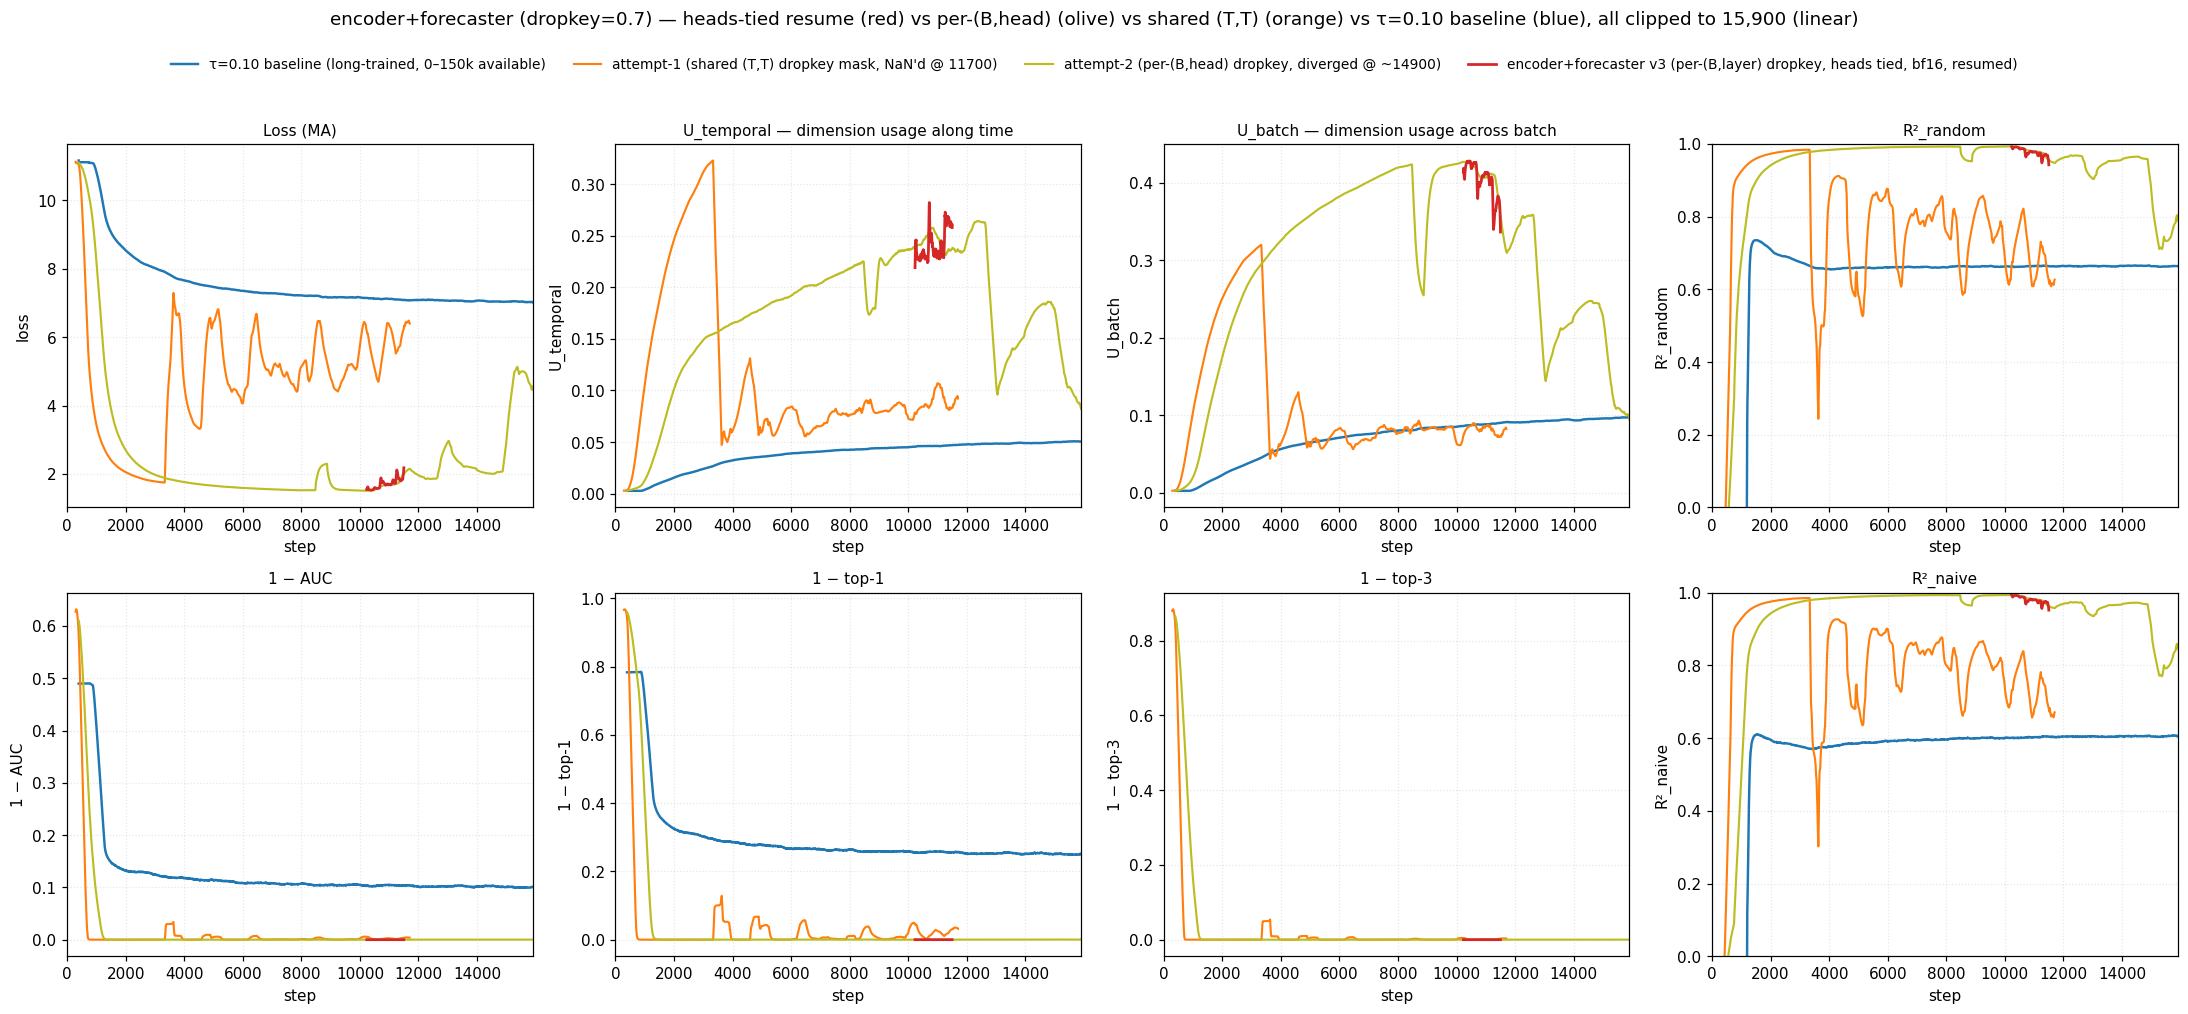
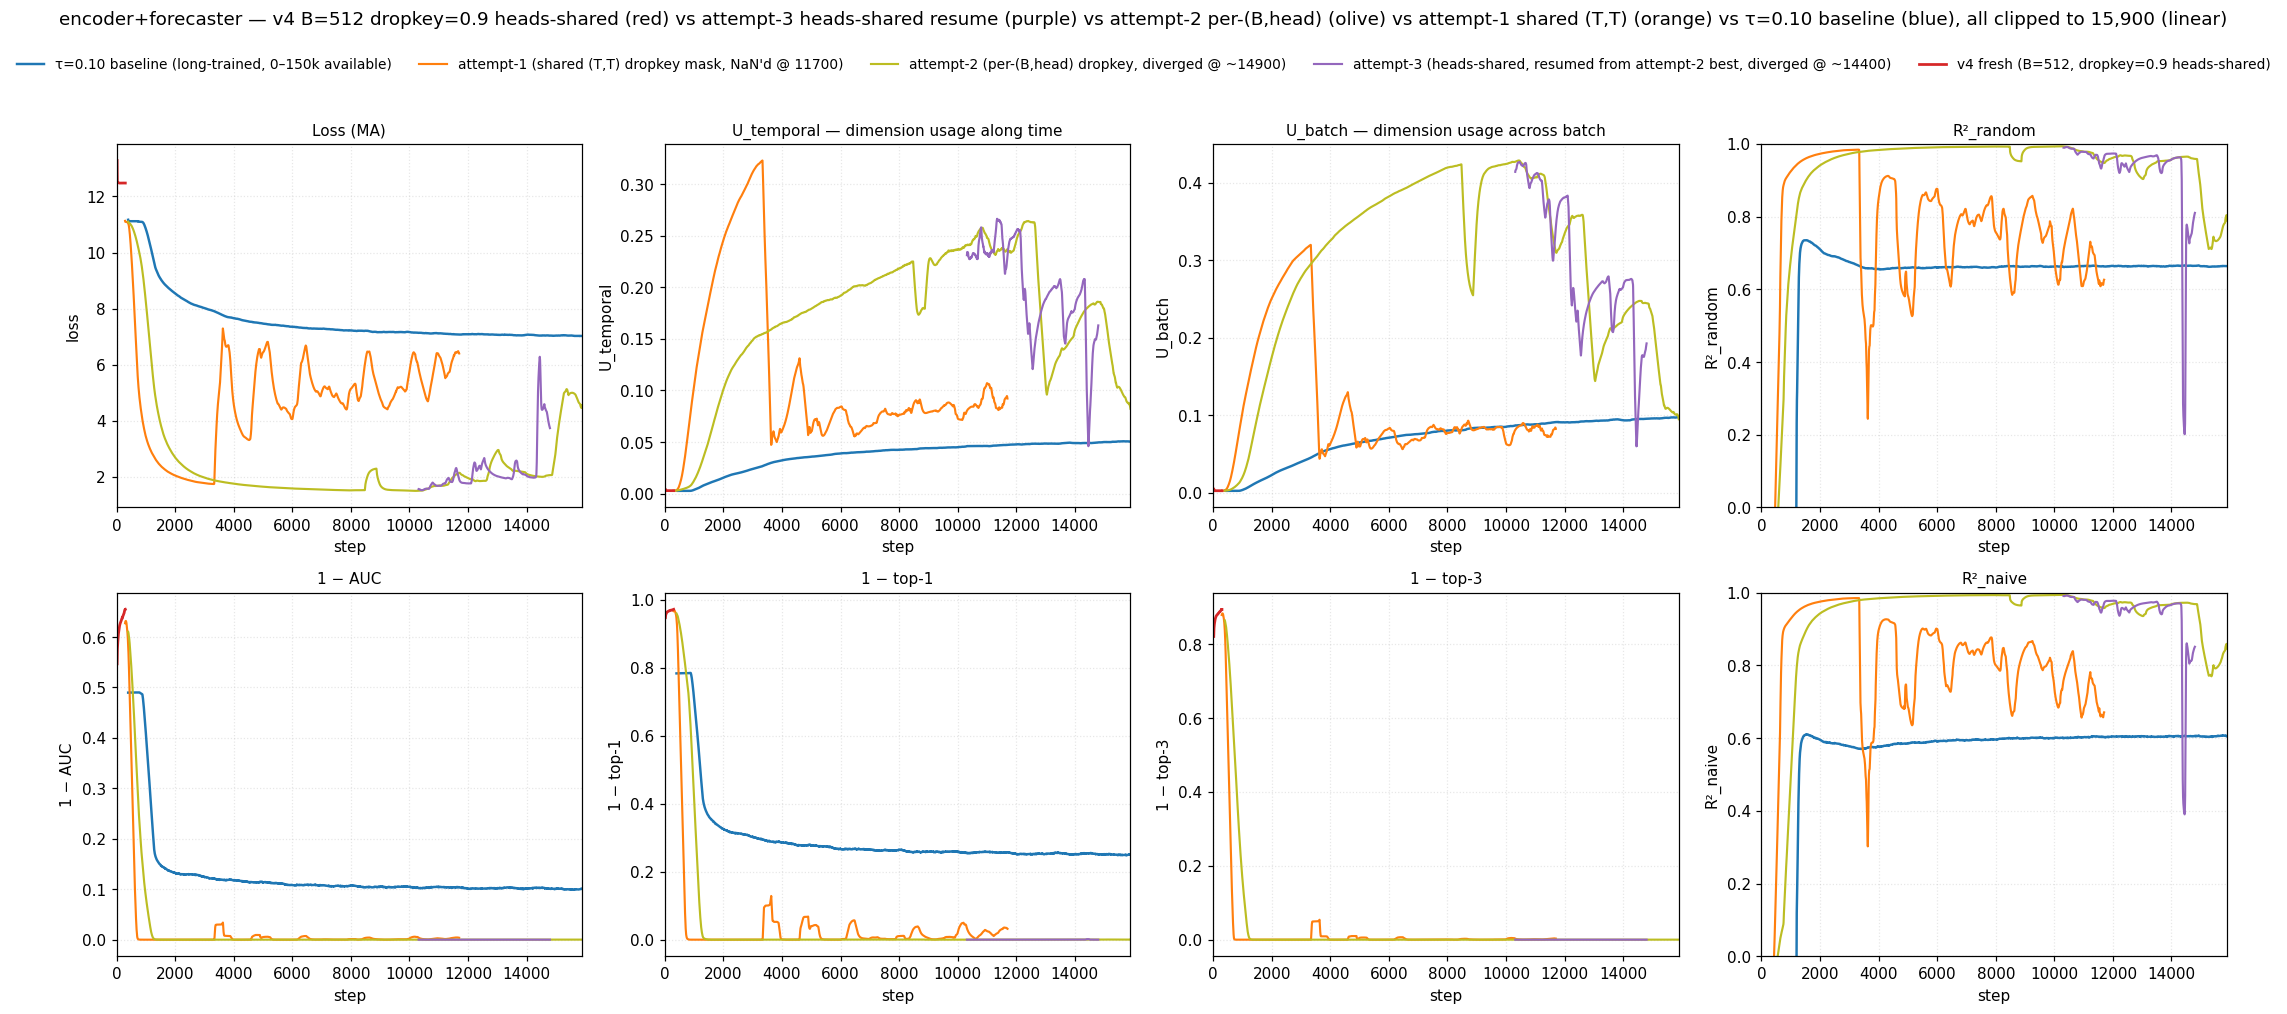
exp(enc-fcst-v4): fresh-from-zero — B=512, dropkey=0.9 heads-shared, bf16
Fresh attempt after the v2/v3 dropkey-0.7 instability diagnostic
(landed in commit 2be4ac0). Multi-factor change agreed at ~03:00:

- --batch-size 512 (was 256): halves effective per-sample LR; each
  step sees more data so outlier batches matter less. Net per-step
  noise reduces by √2.
- --encoder-dropkey 0.9 (was 0.7): stronger past-key drop.
- --encoder-dropkey-share-heads: heads see same mask within (B, layer)
  → prevents heads cooperating to count positions. Adds √nhead more
  per-step variance vs per-(B,head), but the B=512 reduction dominates
  the LR-effective story.
- Fresh from step 0 (no --resume): clean trajectory.
- LR unchanged at 1e-3.

Memory at B=512 + bf16: ~23 GB on the 24 GB 4090 (vs ~11 GB at B=256).
Right at the edge but stable so far.

Run name: enc_fcst_dk09_hs_b512_50k. Throughput ~1.8 sps warm-up,
ETA ~5h to step 50k. If divergence pattern reappears (single-step
loss kick-out like attempt-2), the fix is to drop LR explicitly.

Plot updated to 5 arms: blue baseline / orange attempt-1 / olive
attempt-2 / purple attempt-3 / red v4 (the new headline). Watchdog
re-targeted to v4 paths.

diff --git a/experiments/2026-05-11_exp_encoder_forecaster/scripts/plot_progress.py b/experiments/2026-05-11_exp_encoder_forecaster/scripts/plot_progress.py
@@ -67,11 +67,14 @@ MAIN = Path("/home/jupyter/contrastive-forecasting")
 #   - attempt-1 (shared (T,T) dropkey mask, NaN'd at step 11700) → tab:orange
 #   - attempt-2 (per-(B,head) dropkey, diverged ~14.9k) → olive (visibly
 #                distinct from both tab:orange and tab:red)
-#   - attempt-3 / headline (per-(B,layer) dropkey, heads tied) → tab:red
+#   - attempt-3 (heads-shared, resumed from attempt-2 best, diverged
+#                ~14.4k) → tab:purple (was red; moved to make room for v4)
+#   - v4 / headline (B=512, dropkey=0.9 heads-shared) → tab:red
 C_BASELINE = "#1f77b4"  # tab:blue
 C_ATTEMPT1 = "#ff7f0e"  # tab:orange
 C_ATTEMPT2 = "#bcbd22"  # tab:olive
-C_HEADLINE = "#d62728"  # tab:red
+C_ATTEMPT3 = "#9467bd"  # tab:purple
+C_HEADLINE_V4 = "#d62728"  # tab:red
 
 # τ=0.10 baseline is split across resume chunks. Concatenate in step
 # order; on overlap, the earliest chunk's row wins.
@@ -82,9 +85,10 @@ BASELINE_CHUNKS = [
     MAIN / "sync_tau_sweep_0_10_150k/checkpoints/tau_sweep_0_10_150k_losses.csv",   # 48001–150000
 ]
 
-NEW_ARM_CSV = MAIN / "checkpoints/enc_fcst_dropkey07_pb_hs_50k_losses.csv"
+NEW_ARM_CSV = MAIN / "checkpoints/enc_fcst_dk09_hs_b512_50k_losses.csv"
 ATTEMPT1_CSV = MAIN / "checkpoints/enc_fcst_dropkey07_50k_attempt1_losses.csv"
 ATTEMPT2_CSV = MAIN / "checkpoints/enc_fcst_dropkey07_pb_50k_attempt2_losses.csv"
+ATTEMPT3_CSV = MAIN / "checkpoints/enc_fcst_dropkey07_pb_hs_50k_attempt3_losses.csv"
 
 # (display_label, color, linestyle, lw, csv_path_or_chunks, is_concat)
 ARMS = [
@@ -100,8 +104,12 @@ ARMS = [
      C_ATTEMPT2, "-", 1.4,
      ATTEMPT2_CSV,
      False),
-    ("encoder+forecaster v3 (per-(B,layer) dropkey, heads tied, bf16, resumed)",
-     C_HEADLINE, "-", 1.8,
+    ("attempt-3 (heads-shared, resumed from attempt-2 best, diverged @ ~14400)",
+     C_ATTEMPT3, "-", 1.4,
+     ATTEMPT3_CSV,
+     False),
+    ("v4 fresh (B=512, dropkey=0.9 heads-shared)",
+     C_HEADLINE_V4, "-", 1.8,
      NEW_ARM_CSV,
      False),
 ]
@@ -292,8 +300,9 @@ def render_figure(traj, *, logx, logy_metrics, out_path, scale_tag, xmax,
                    bbox_to_anchor=(0.5, 0.985))
 
     fig.suptitle(
-        f"encoder+forecaster (dropkey=0.7) — heads-tied resume (red) vs "
-        f"per-(B,head) (olive) vs shared (T,T) (orange) vs τ=0.10 baseline "
+        f"encoder+forecaster — v4 B=512 dropkey=0.9 heads-shared (red) vs "
+        f"attempt-3 heads-shared resume (purple) vs attempt-2 per-(B,head) "
+        f"(olive) vs attempt-1 shared (T,T) (orange) vs τ=0.10 baseline "
         f"(blue), all clipped to {xmax:,} ({scale_tag})",
         fontsize=12, y=1.02)
     fig.tight_layout(rect=(0, 0, 1, 0.96))
@@ -312,14 +321,16 @@ def main() -> None:
     new_arm_max = int(new_arm["step"].max())
     baseline_max = int(baseline["step"].max())
     # Right edge = the most recent step among the non-baseline arms
-    # (attempt-1 / attempt-2 / attempt-3-headline). All four arms get
-    # clipped to the same window before smoothing so the curves end at
-    # the same x. Capped at baseline_max in case the headline overshoots.
+    # (attempt-1 / attempt-2 / attempt-3 / v4-headline). All five arms
+    # get clipped to the same window before smoothing so the curves end
+    # at the same x. Capped at baseline_max in case anything overshoots.
     attempt1 = load_traj(ATTEMPT1_CSV)
     attempt1_max = int(attempt1["step"].max()) if attempt1 is not None else 0
     attempt2 = load_traj(ATTEMPT2_CSV)
     attempt2_max = int(attempt2["step"].max()) if attempt2 is not None else 0
-    xmax = max(new_arm_max, attempt1_max, attempt2_max)
+    attempt3 = load_traj(ATTEMPT3_CSV)
+    attempt3_max = int(attempt3["step"].max()) if attempt3 is not None else 0
+    xmax = max(new_arm_max, attempt1_max, attempt2_max, attempt3_max)
     xmax = min(xmax, baseline_max)
 
     # Log-x lower bound: snap to the smaller of the two arms' first
